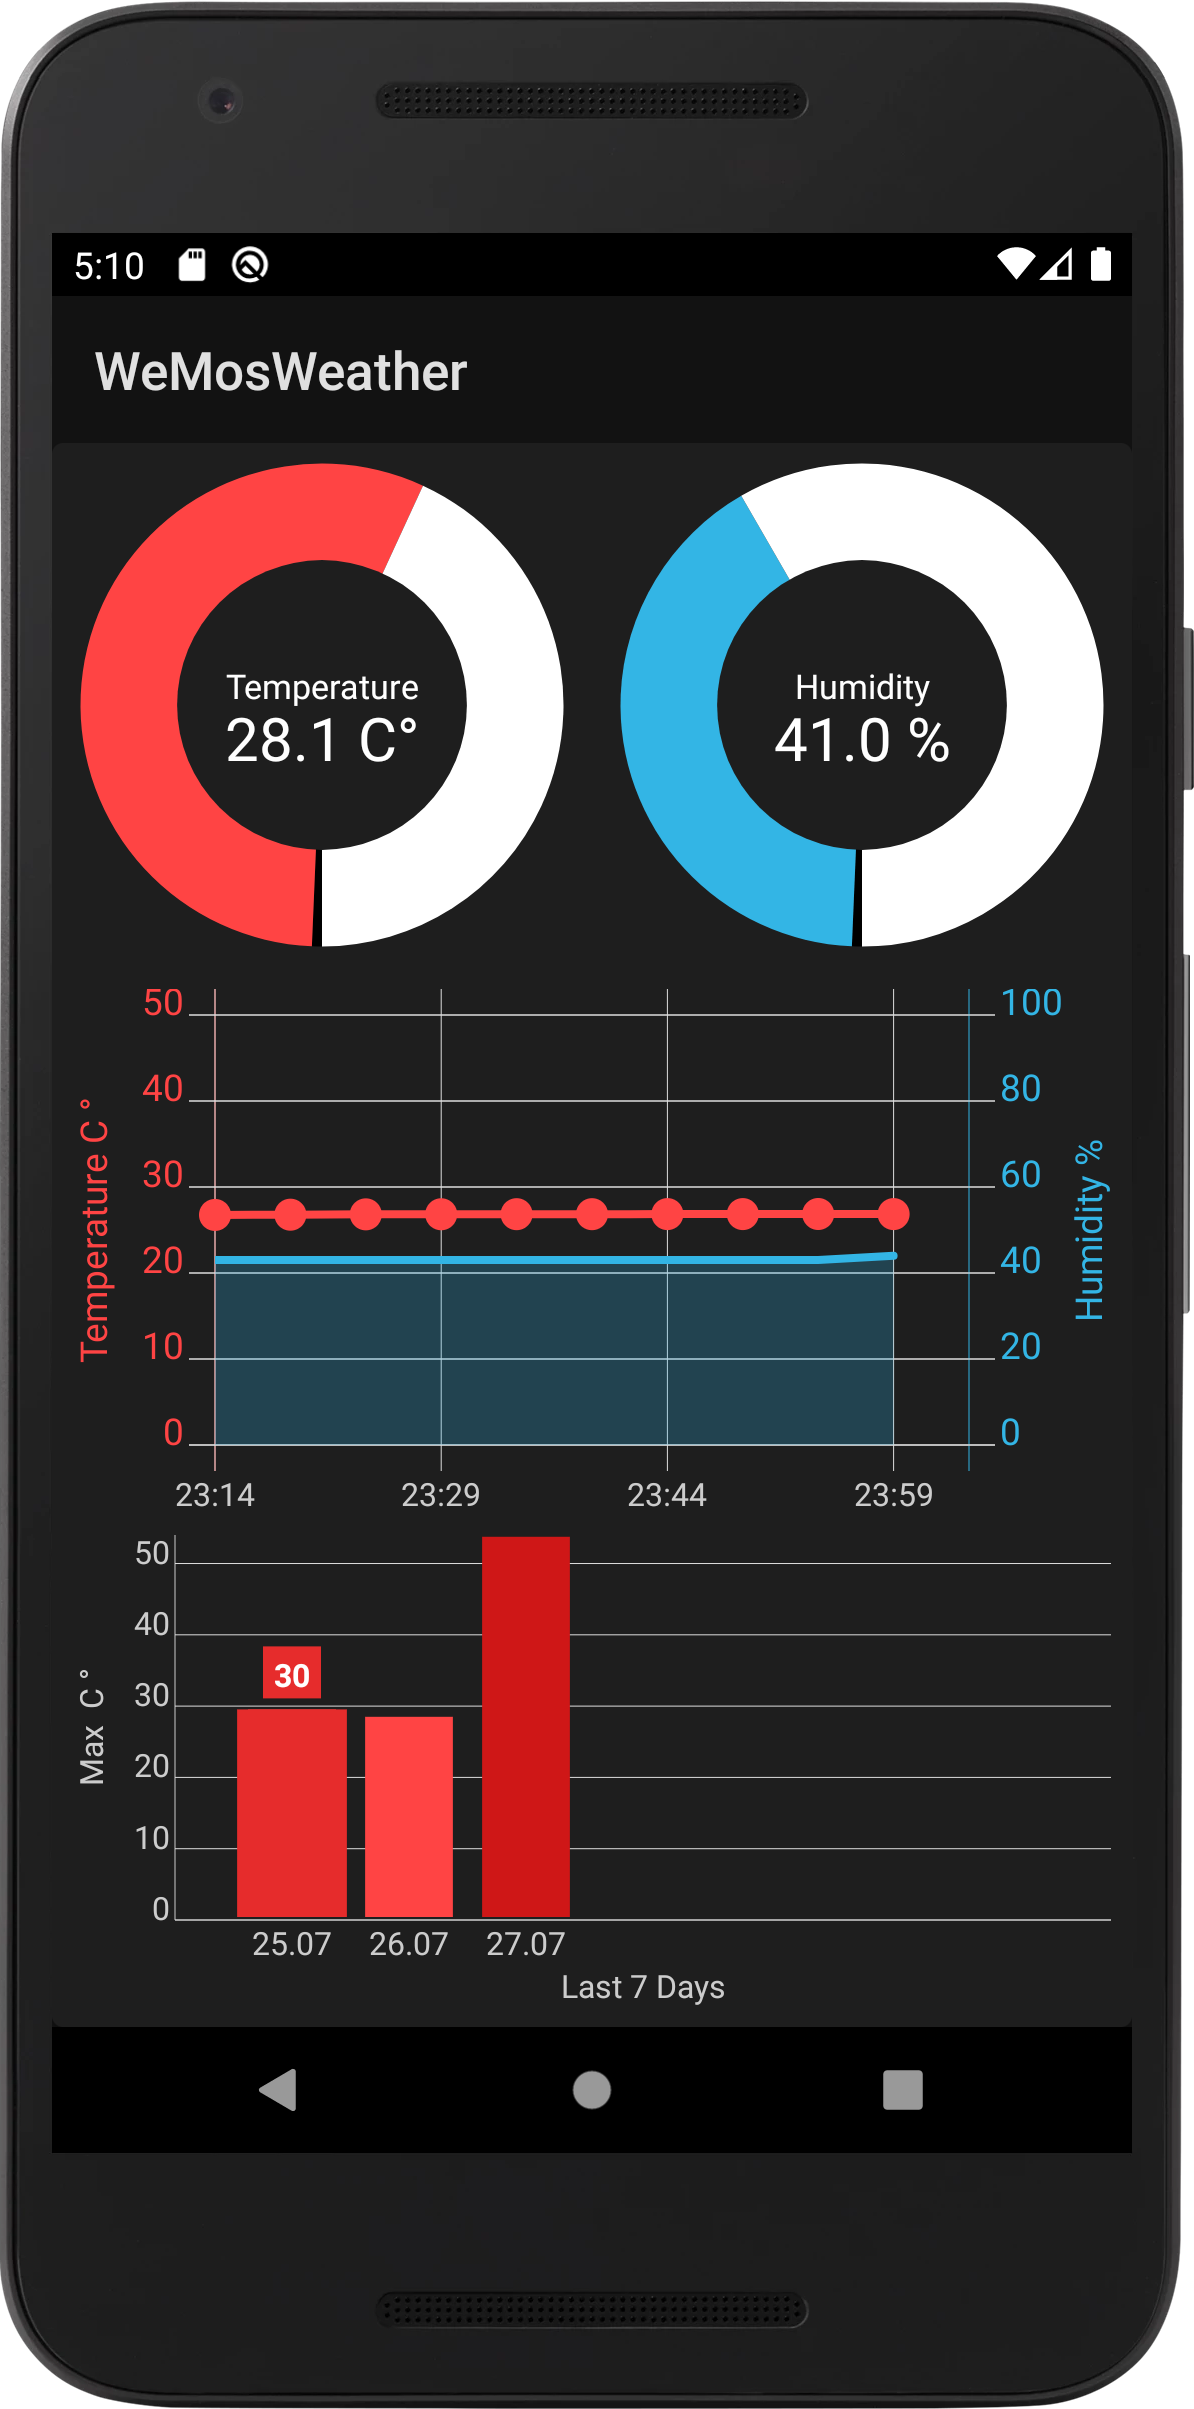
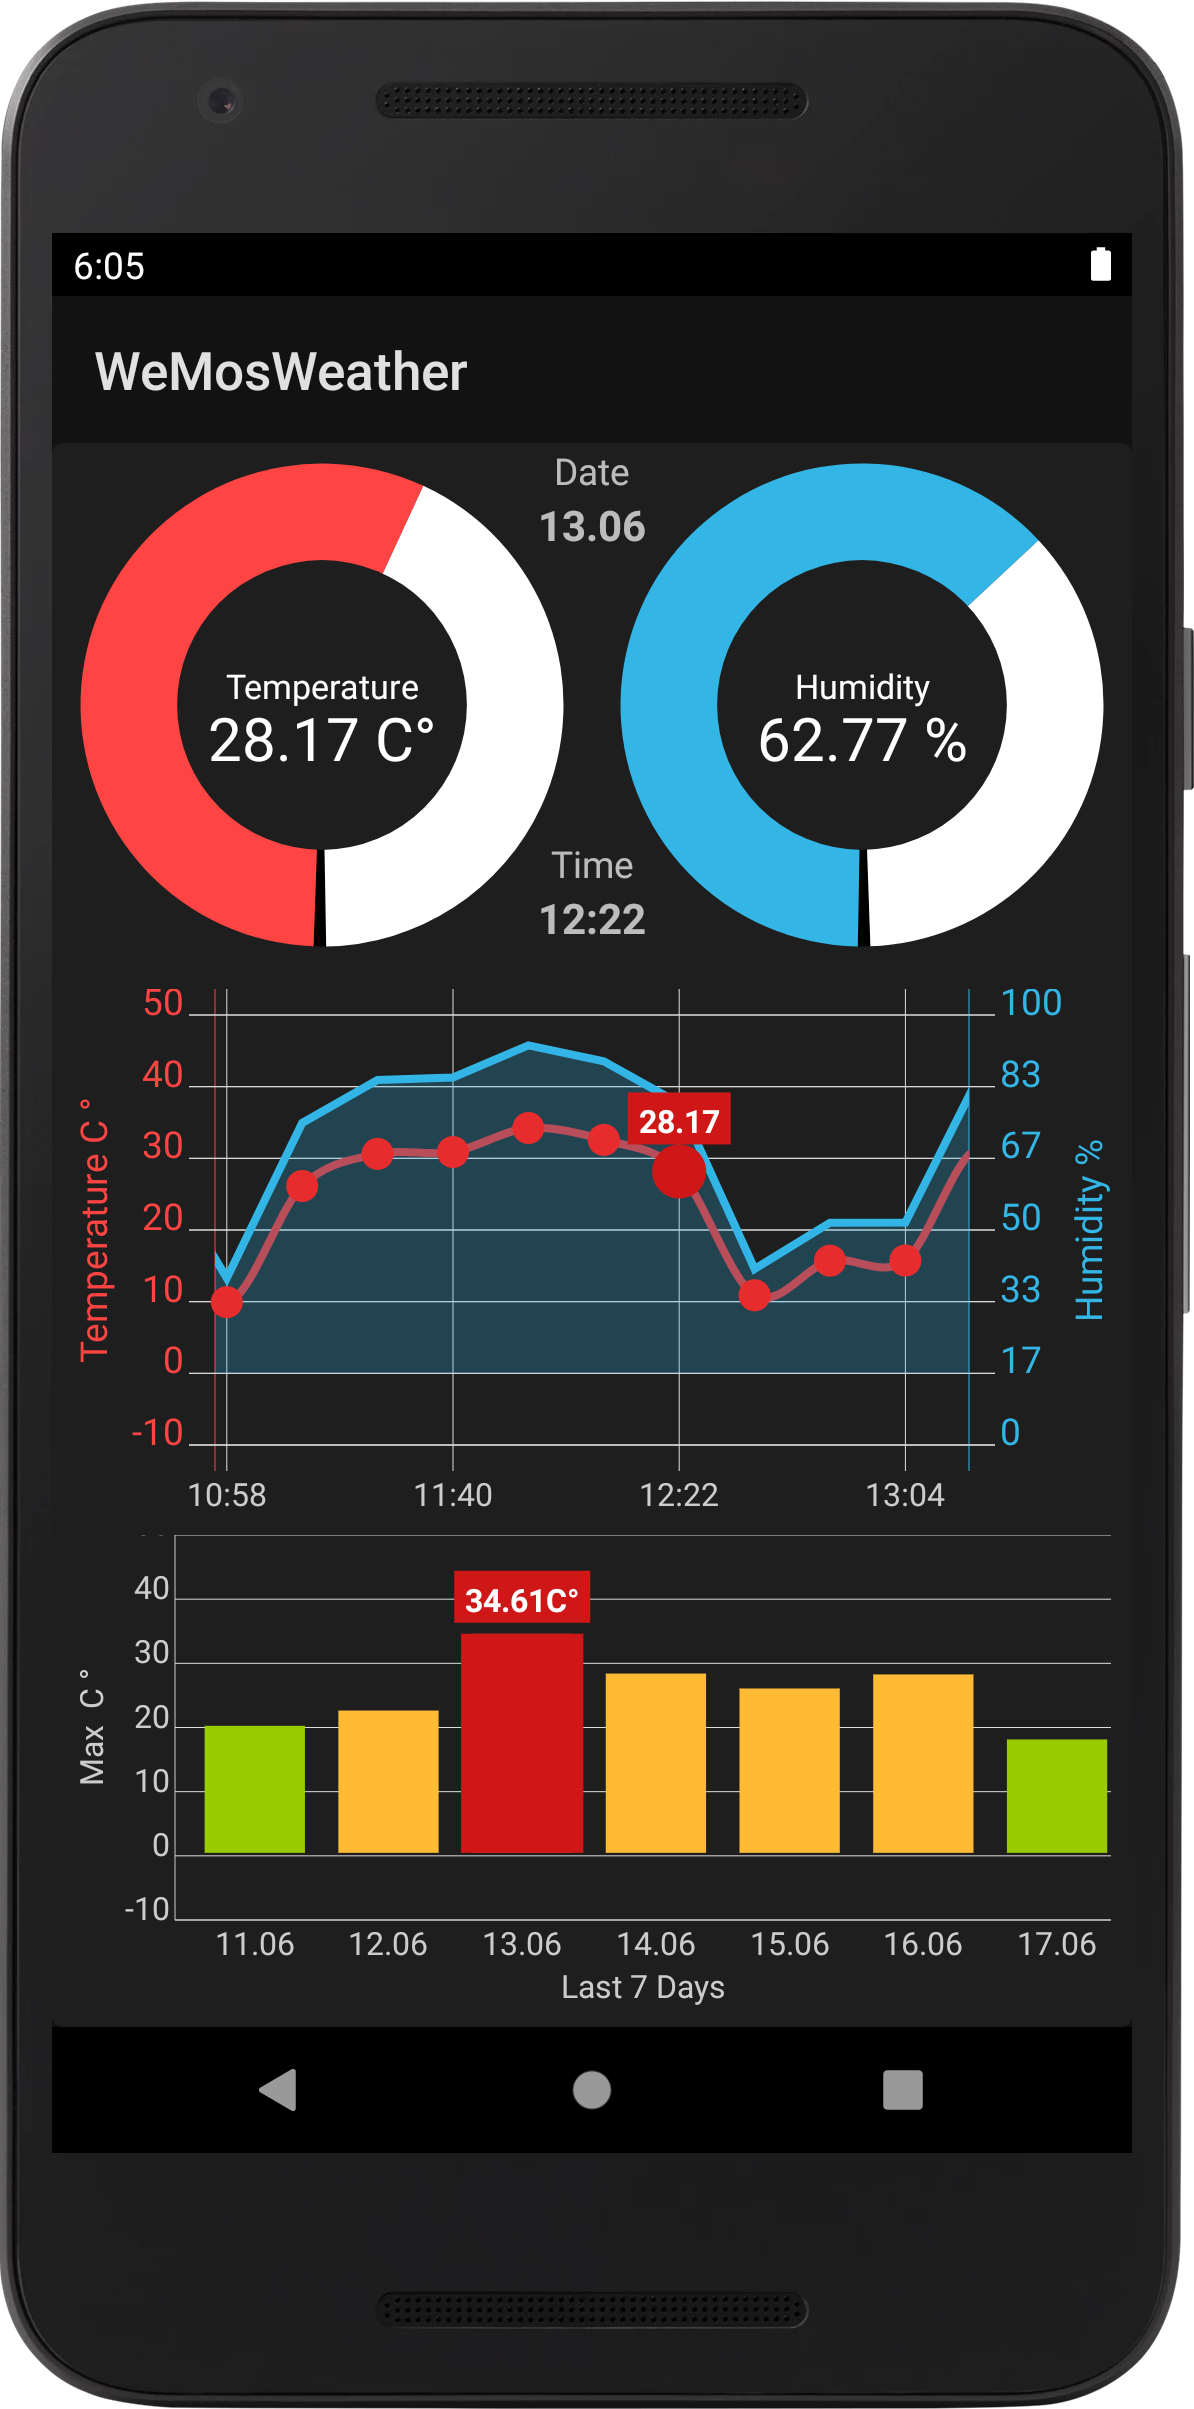
feat: Auto Select newest DataEntry + Show Date & Time of selected DataEntry

diff --git a/android/app/src/main/java/com/philkes/wemosweather/MainActivity.java b/android/app/src/main/java/com/philkes/wemosweather/MainActivity.java
@@ -20,8 +20,10 @@ import com.philkes.wemosweather.thingspeak.Util;
 
 import lecho.lib.hellocharts.gesture.ZoomType;
 import lecho.lib.hellocharts.listener.ColumnChartOnValueSelectListener;
+import lecho.lib.hellocharts.listener.LineChartOnValueSelectListener;
 import lecho.lib.hellocharts.model.ColumnChartData;
 import lecho.lib.hellocharts.model.LineChartData;
+import lecho.lib.hellocharts.model.PointValue;
 import lecho.lib.hellocharts.model.SelectedValue;
 import lecho.lib.hellocharts.model.SubcolumnValue;
 import lecho.lib.hellocharts.model.Viewport;
@@ -34,6 +36,7 @@ import static com.philkes.wemosweather.thingspeak.Util.getChannelFeedsURL;
 import static com.philkes.wemosweather.thingspeak.Util.getLastChannelEntryURL;
 
 public class MainActivity extends AppCompatActivity {
+    public static final boolean DEBUG_LAYOUT= false;
 
     public static final String TAG="WeMosWeather";
     public static final int UPDATE_DELAY=20000;
@@ -46,12 +49,18 @@ public class MainActivity extends AppCompatActivity {
 
     private DataSet dataSet;
 
+    private DataSet.DayData selectedDayData=null;
+    private DataEntry selectedEntry=null;
+
     // 0: Thingspeak Channel
     // 1: HTTP WebServer
     public static final int UPDATE_SOURCE=0;
     private FrameLayout layoutProgressBar;
 
     RequestQueue queue;
+
+    public TextView textTime;
+    public TextView textDate;
 
     @Override
     protected void onCreate(Bundle savedInstanceState) {
@@ -77,6 +86,9 @@ public class MainActivity extends AppCompatActivity {
         //.setRequestQueue(queue)
         //.setUpdateWithHTTP("humidity", 3000);
 
+        textTime=findViewById(R.id.textTime);
+        textDate=findViewById(R.id.textDate);
+
         chartTop=findViewById(R.id.lineChart1);
         chartBottom=findViewById(R.id.colChart1);
         layoutProgressBar=findViewById(R.id.layoutProgressBar);
@@ -98,24 +110,29 @@ public class MainActivity extends AppCompatActivity {
      * Requests and loads DataSet from Thingspeak channel data
      */
     private void requestInitialThingspeakData() {
-        String url=getChannelFeedsURL();
-        JsonObjectRequest stringRequest=new JsonObjectRequest
-                (Request.Method.GET, url, null,
-                        /** Load dataSet from Thingspeak data
-                         * Setup Thingspeak updates*/
-                        response -> {
-                            Log.d(TAG, "initial Thingspeak Data: " + response);
-                            //dataSet=Util.gson.fromJson(response.toString(), DataSet.class);
-                            dataSet=Util.generateTestDataSet(100,100,-10,35);
-                            //setupThingspeakUpdates(UPDATE_DELAY);
-                            updateDataUI();
-                            hideProgressBar();
-                        },
-                        error -> {
-                            Log.e(TAG, "initial Thingspeak Data: " + error.toString());
-                            requestInitialThingspeakData();
-                        });
-        queue.add(stringRequest);
+        if(DEBUG_LAYOUT){
+            dataSet=Util.generateTestDataSet(100,100,-10,35);
+            updateDataUI();
+            hideProgressBar();
+        }else {
+            String url=getChannelFeedsURL();
+            JsonObjectRequest stringRequest=new JsonObjectRequest
+                    (Request.Method.GET, url, null,
+                            /** Load dataSet from Thingspeak data
+                             * Setup Thingspeak updates*/
+                            response -> {
+                                Log.d(TAG, "initial Thingspeak Data: " + response);
+                                dataSet=Util.gson.fromJson(response.toString(), DataSet.class);
+                                setupThingspeakUpdates(UPDATE_DELAY);
+                                updateDataUI();
+                                hideProgressBar();
+                            },
+                            error -> {
+                                Log.e(TAG, "initial Thingspeak Data: " + error.toString());
+                                requestInitialThingspeakData();
+                            });
+            queue.add(stringRequest);
+        }
     }
 
     private void updateDataUI() {
@@ -128,6 +145,7 @@ public class MainActivity extends AppCompatActivity {
         SubcolumnValue subcolumnValue=chartBottom.getChartData().getColumns().get(firstIdx)
                 .getValues().get(secIdx);
         generateTimeValues(firstIdx, subcolumnValue);
+        chartBottom.selectValue(new SelectedValue(chartBottom.getChartData().getColumns().size()-1, 0, SelectedValue.SelectedValueType.COLUMN));
         Log.d(TAG, "updateDataUI: " + currentData);
     }
 
@@ -161,15 +179,14 @@ public class MainActivity extends AppCompatActivity {
         chartBottom.setColumnChartData(columnData);
 
         // Set value touch listener that will trigger changes for chartTop.
-        chartBottom.setOnValueTouchListener(new ValueTouchListener());
-
-        // Set selection mode to keep selected month column highlighted.
         chartBottom.setValueSelectionEnabled(true);
+        chartBottom.setOnValueTouchListener(new DayColumnValueListener());
 
         int valueSize=columnData.getColumns().size();
         //Viewport v2=new Viewport(-1, Util.TEMP_MAX + 4, 7, 0);
         Viewport v=new Viewport(valueSize - 7, 50, valueSize, Util.TEMP_MIN);
         Viewport vMax=new Viewport(-1, 50, valueSize, Util.TEMP_MIN);
+
         chartBottom.setMaximumViewport(vMax);
         chartBottom.setCurrentViewport(v);
         chartBottom.setZoomEnabled(false);
@@ -196,21 +213,47 @@ public class MainActivity extends AppCompatActivity {
 
         chartTop.setZoomType(ZoomType.HORIZONTAL);
         chartTop.setZoomEnabled(false);
+
         chartTop.setValueSelectionEnabled(true);
+        chartTop.setOnValueTouchListener(new EntryPointValueListener());
 
         chartTop.startDataAnimation(300);
     }
 
-    private class ValueTouchListener implements ColumnChartOnValueSelectListener {
+    public void displaySelectedEntry(){
+        tempSlider.updateValue(selectedEntry.getTemperature());
+        humSlider.updateValue(selectedEntry.getHumidity());
+        textTime.setText(selectedEntry.getTimeString());
+        textDate.setText(selectedDayData.getLabel());
+    }
+
+    private class DayColumnValueListener implements ColumnChartOnValueSelectListener {
 
         @Override
         public void onValueSelected(int columnIndex, int subcolumnIndex, SubcolumnValue value) {
             generateTimeValues(columnIndex, value);
+            selectedDayData= dataSet.getDayNumberData(columnIndex);
+            chartTop.selectValue(new SelectedValue(0, chartTop.getLineChartData().getLines().get(0).getValues().size()-1, SelectedValue.SelectedValueType.LINE));
         }
 
         @Override
         public void onValueDeselected() {
             //generateLineData();
+        }
+    }
+    private class EntryPointValueListener implements LineChartOnValueSelectListener {
+
+        @Override
+        public void onValueSelected(int lineIdx, int pointIdx, PointValue pointValue) {
+            System.out.println(String.format("Selected %d , %d of"+pointValue,lineIdx,pointIdx));
+            selectedEntry= selectedDayData.getEntryNumberData(pointIdx);
+            displaySelectedEntry();
+
+        }
+
+        @Override
+        public void onValueDeselected() {
+
         }
     }
 }

diff --git a/android/app/src/main/java/com/philkes/wemosweather/thingspeak/DataEntry.java b/android/app/src/main/java/com/philkes/wemosweather/thingspeak/DataEntry.java
@@ -10,15 +10,17 @@ import com.google.gson.reflect.TypeToken;
 
 import org.joda.time.DateTime;
 import org.joda.time.DateTimeZone;
+import org.joda.time.format.DateTimeFormat;
 import org.joda.time.format.DateTimeFormatter;
 import org.joda.time.format.ISODateTimeFormat;
 
 import java.lang.reflect.Type;
+import java.util.Locale;
 import java.util.Map;
 
 /** Temperature, Humidity, Pressure Data for a Timestamp*/
 public class DataEntry implements Comparable<DataEntry> {
-    private static final DateTimeFormatter formatter = ISODateTimeFormat.dateTimeNoMillis();
+    private static final DateTimeFormatter formatter =DateTimeFormat.forPattern("HH:mm");
 
     private long id;
     private float temperature;

diff --git a/android/app/src/main/java/com/philkes/wemosweather/components/DataSlider.java b/android/app/src/main/java/com/philkes/wemosweather/components/DataSlider.java
@@ -52,7 +52,7 @@ public class DataSlider {
         this.maxValue=maxValue;
         this.context=context;
         this.color=color;
-        this.dividerSize=this.maxValue/150;
+        this.dividerSize=this.maxValue/120;
         setUnits(units);
         initialize();
         setLabel(label);
@@ -96,7 +96,7 @@ public class DataSlider {
         data.setSlicesSpacing(0);
         chart.setValueTouchEnabled(false);
         chart.setChartRotationEnabled(false);
-        chart.setChartRotation(90, true);
+        chart.setChartRotation(Math.round(90-2*dividerSize), true);
         chart.setPieChartData(data);
     }
 

diff --git a/android/app/src/main/java/com/philkes/wemosweather/thingspeak/DataSet.java b/android/app/src/main/java/com/philkes/wemosweather/thingspeak/DataSet.java
@@ -104,6 +104,10 @@ public class DataSet {
         public String getLabel() {
             return date.toString("dd.MM");
         }
+
+        public DataEntry getEntryNumberData(int entryNumber) {
+           return data.stream().collect(Collectors.toList()).get(entryNumber);
+        }
     }
 
     public static class DataSetAdapter implements JsonDeserializer<DataSet> {

diff --git a/README.md b/README.md
@@ -1,4 +1,4 @@
-# WeMosWeather <img src="/assets/logo.png" height="56"> 
+# WeMosWeather <img src="/assets/logo2.png" height="56"> 
 ## 3D Printed WeMos D1 mini Weather station
 ## Station
 * [BME 280](https://de.aliexpress.com/item/32801639254.html?src=google&src=google&albch=shopping&acnt=494-037-6276&isdl=y&slnk=&plac=&mtctp=&albbt=Gploogle_7_shopping&aff_atform=google&aff_short_key=UneMJZVf&&albagn=888888&albcp=1705854617&albag=67310370915&trgt=743612850714&crea=de32801639254&netw=u&device=c&albpg=743612850714&albpd=de32801639254&gclid=EAIaIQobChMIqMSEpN7e6gIVkLt3Ch35YAZTEAQYASABEgLxBfD_BwE&gclsrc=aw.ds)
